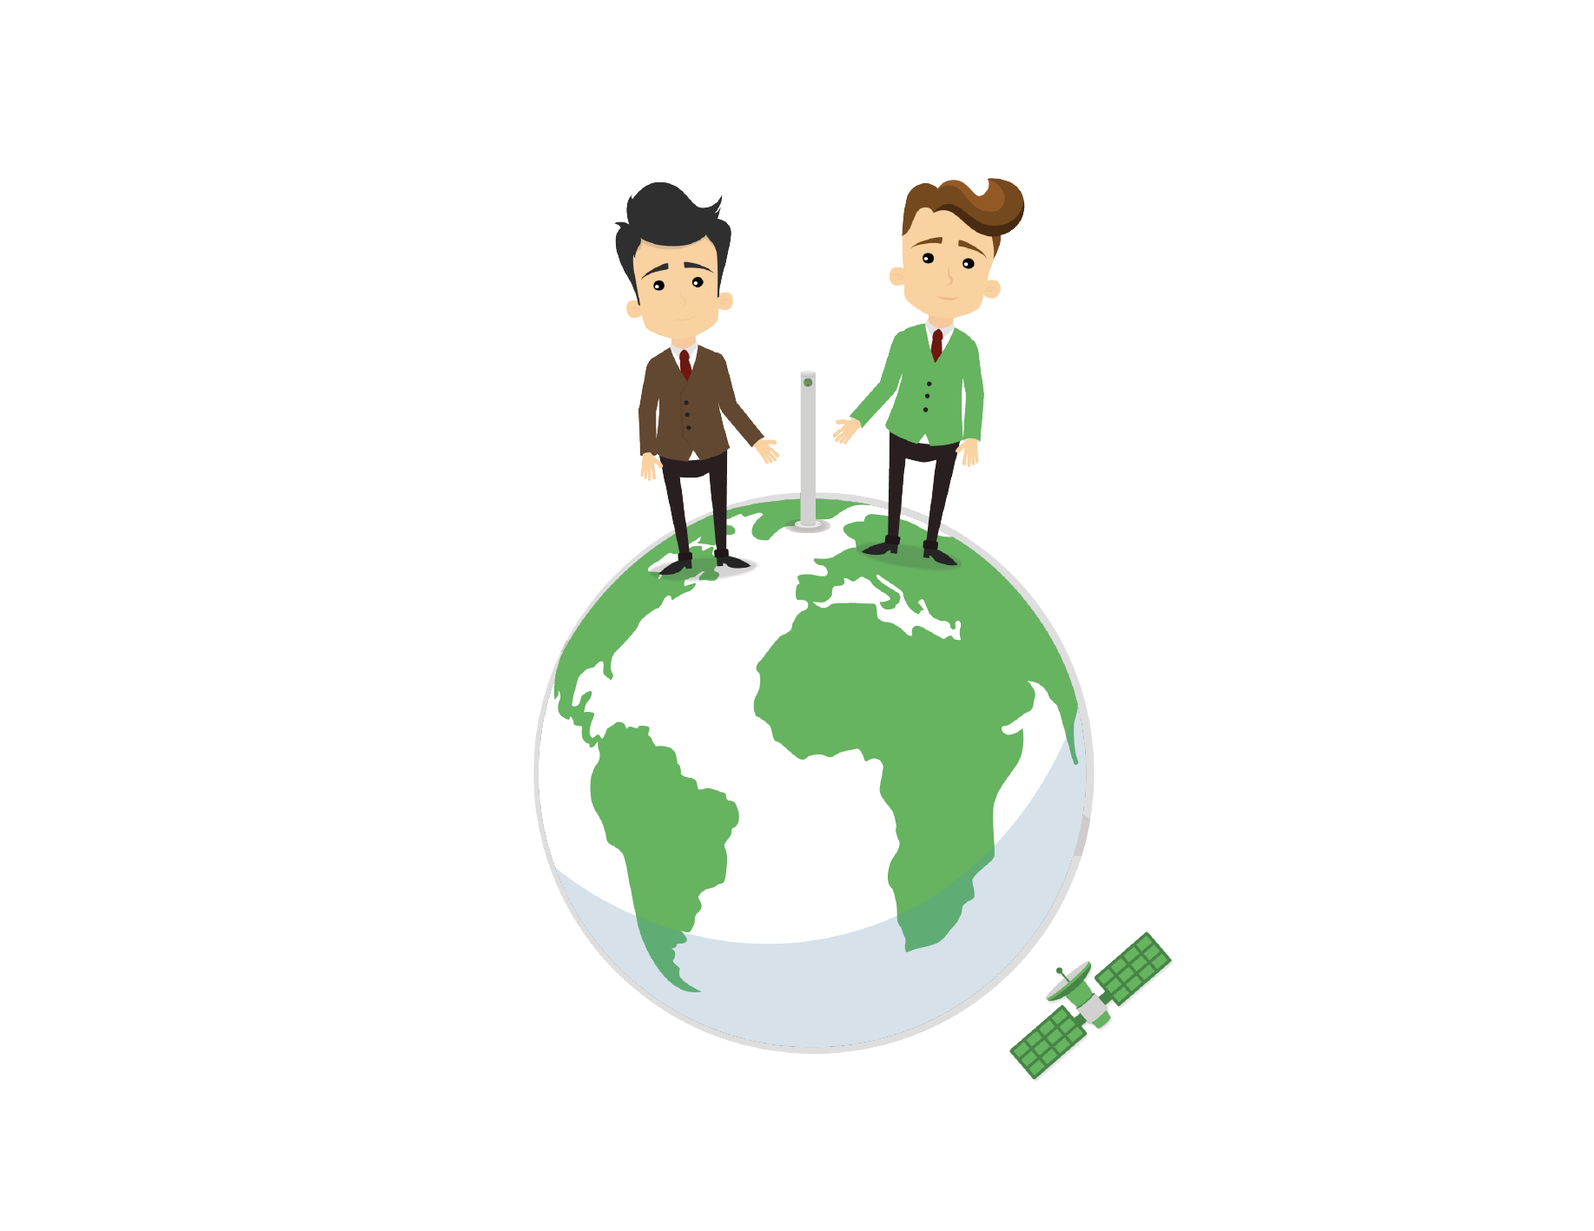
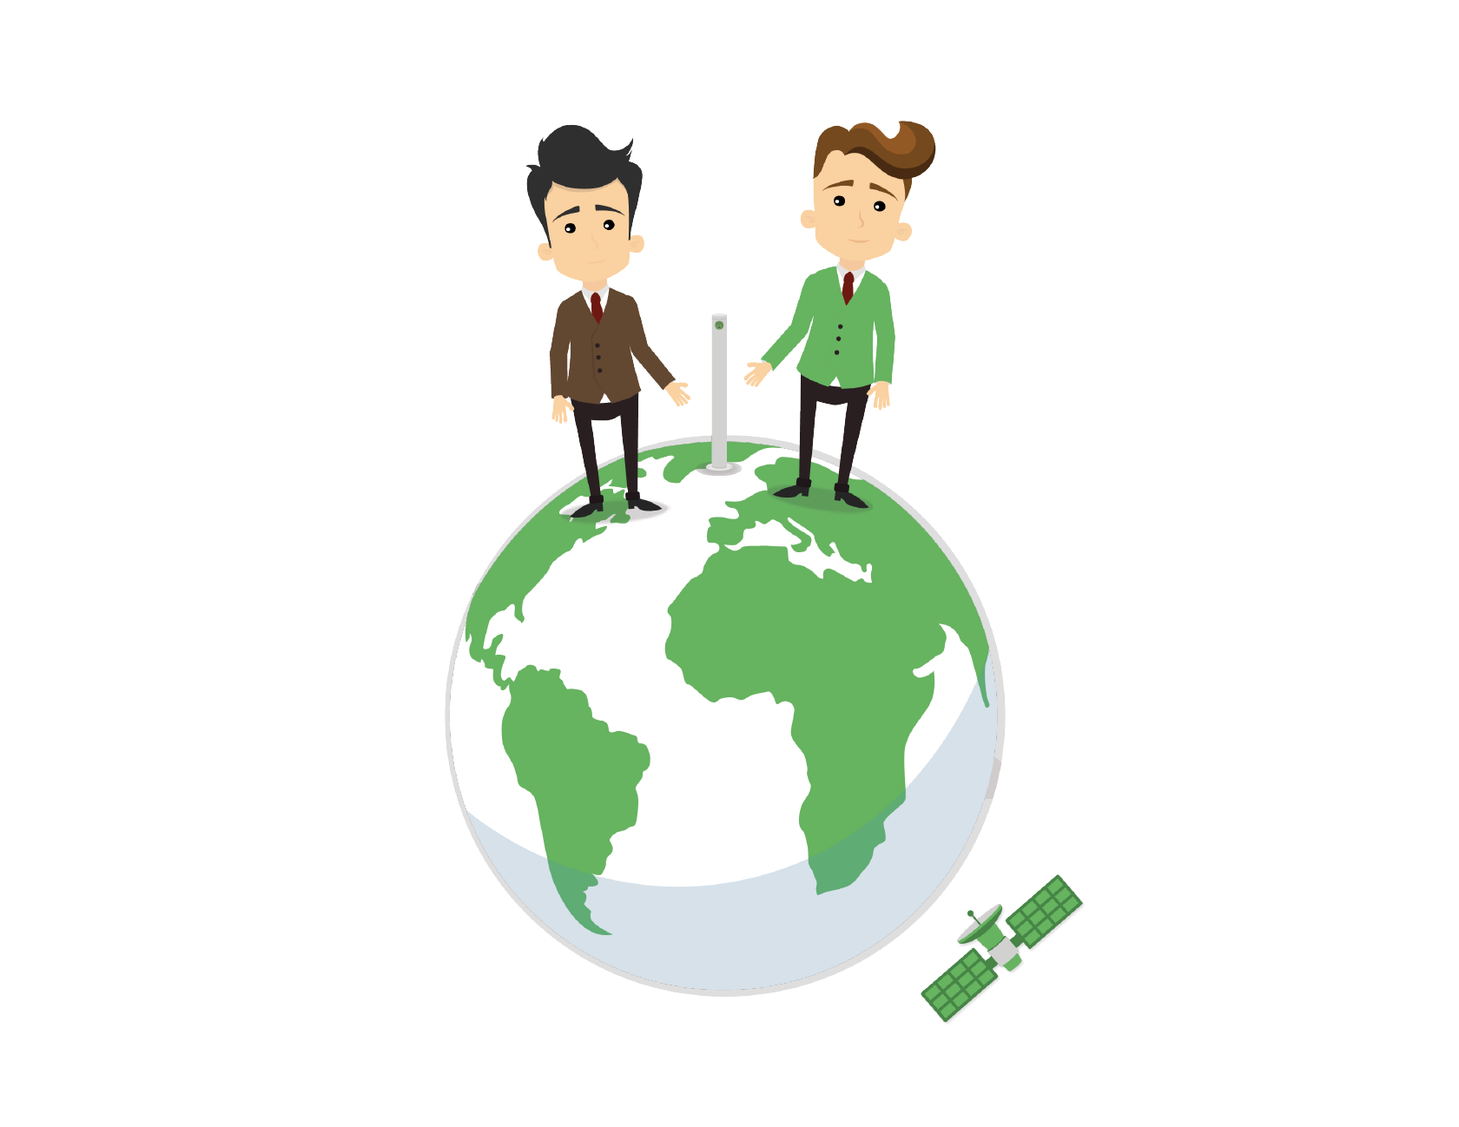
fixed youtube, alignment, and added google tracking

diff --git a/dist/style.css b/dist/style.css
@@ -1,12 +1,12 @@
 /*!
- * Theme Name: HTML5 Blank
- * Theme URI: http://html5blank.com
- * Description: HTML5 Blank WordPress Theme
- * Version: 1.5.0
- * Author: Todd Motto (@toddmotto)
- * Author URI: http://toddmotto.com
- * Tags: Blank, HTML5, CSS3
+ * Theme Name: Cpotter Landing Page
+ * Theme URI: http://cpotter.us
+ * Description: Cpotter Landing Page built on HTML5 Blank (@toddmotto)
+ * Version: 1.0.0
+ * Author: Xavier Banegas
+ * Author URI: http://xavierb.me
+ * Tags: Parking, Cpotter
  *
  * License: MIT
  * License URI: http://opensource.org/licenses/mit-license.php
- */html{font-family:sans-serif;-ms-text-size-adjust:100%;-webkit-text-size-adjust:100%}body{margin:0}article,aside,details,figcaption,figure,footer,header,hgroup,main,menu,nav,section,summary{display:block}audio,canvas,progress,video{display:inline-block;vertical-align:baseline}audio:not([controls]){display:none;height:0}[hidden],template{display:none}a{background-color:transparent}a:active,a:hover{outline:0}abbr[title]{border-bottom:1px dotted}b,strong{font-weight:700}dfn{font-style:italic}h1{font-size:2em;margin:.67em 0}mark{background:#ff0;color:#000}small{font-size:80%}sub,sup{font-size:75%;line-height:0;position:relative;vertical-align:baseline}sup{top:-.5em}sub{bottom:-.25em}img{border:0}svg:not(:root){overflow:hidden}figure{margin:1em 40px}hr{-moz-box-sizing:content-box;box-sizing:content-box;height:0}pre{overflow:auto}code,kbd,pre,samp{font-family:monospace,monospace;font-size:1em}button,input,optgroup,select,textarea{color:inherit;font:inherit;margin:0}button{overflow:visible}button,select{text-transform:none}button,html input[type="button"],input[type="reset"],input[type="submit"]{-webkit-appearance:button;cursor:pointer}button[disabled],html input[disabled]{cursor:default}button::-moz-focus-inner,input::-moz-focus-inner{border:0;padding:0}input{line-height:normal}input[type="checkbox"],input[type="radio"]{-moz-box-sizing:border-box;box-sizing:border-box;padding:0}input[type="number"]::-webkit-inner-spin-button,input[type="number"]::-webkit-outer-spin-button{height:auto}input[type="search"]{-webkit-appearance:textfield;-moz-box-sizing:content-box;box-sizing:content-box}input[type="search"]::-webkit-search-cancel-button,input[type="search"]::-webkit-search-decoration{-webkit-appearance:none}fieldset{border:1px solid silver;margin:0 2px;padding:.35em .625em .75em}legend{border:0;padding:0}textarea{overflow:auto}optgroup{font-weight:700}table{border-collapse:collapse;border-spacing:0}td,th{padding:0}*,*:after,*:before{-moz-box-sizing:border-box;box-sizing:border-box}html{font-size:62.5%;-webkit-tap-highlight-color:transparent}body{font-family:"Helvetica Neue",Helvetica,Arial,"Open Sans",sans-serif;font-size:140%;line-height:1.5;color:#CDCCCC;background-color:#3d3d3c}img{max-width:100%;vertical-align:middle}a{color:#CDCCCC;text-decoration:none}a:focus,a:hover{text-decoration:underline}input[type="text"],input[type="search"]{font-size:inherit;line-height:inherit}::-moz-selection{background-color:#04A4CC;color:#3d3d3c;text-shadow:none}::selection{background-color:#04A4CC;color:#3d3d3c;text-shadow:none}.alignnone{margin:5px 15px 15px 0}.aligncenter{display:block;margin:5px auto}.alignright{float:right;margin:5px 0 15px 15px}.alignleft{float:left;margin:5px 15px 15px 0}.wp-caption{background:#3d3d3c;border:thin solid #F0F0F0;max-width:95%;padding:5px;text-align:center}.wp-caption img{width:auto;max-width:98.5%;height:auto;border:0 none;padding:0;margin:0}.wp-caption .wp-caption-text,.gallery-caption{margin:0;padding:0 5px 5px;font-size:140%;line-height:1.5}.clear:before,.clear:after{content:" ";display:table}.clear:after{clear:both}.reset-box{padding:0;margin:0}.wrapper{max-width:1280px;padding:0 15px;margin:0 auto;position:relative}.header{padding-top:70px}.header .subheader{text-align:center;margin-top:20px}.mailing-link{text-align:center}.mailing-link a{color:#6AB565}.copyright{color:gray;margin-left:8%}@media print{*,*:before,*:after{background:transparent!important;color:#000!important;box-shadow:none!important;text-shadow:none!important}a,a:visited{text-decoration:underline}a[href]:after{content:" (" attr(href)")"}abbr[title]:after{content:" (" attr(title)")"}a[href^="#"]:after,a[href^="javascript:"]:after{content:""}pre,blockquote{border:1px solid #999;page-break-inside:avoid}thead{display:table-header-group}tr,img{page-break-inside:avoid}img{max-width:100%!important}p,h2,h3{orphans:3;widows:3}h2,h3{page-break-after:avoid}}.video-wrapper{overflow:hidden}.video-wrapper iframe{width:90%;height:90%;padding-top:10%}@media (max-width:991px){iframe{width:100%}}
+ */html{font-family:sans-serif;-ms-text-size-adjust:100%;-webkit-text-size-adjust:100%}body{margin:0}article,aside,details,figcaption,figure,footer,header,hgroup,main,menu,nav,section,summary{display:block}audio,canvas,progress,video{display:inline-block;vertical-align:baseline}audio:not([controls]){display:none;height:0}[hidden],template{display:none}a{background-color:transparent}a:active,a:hover{outline:0}abbr[title]{border-bottom:1px dotted}b,strong{font-weight:700}dfn{font-style:italic}h1{font-size:2em;margin:.67em 0}mark{background:#ff0;color:#000}small{font-size:80%}sub,sup{font-size:75%;line-height:0;position:relative;vertical-align:baseline}sup{top:-.5em}sub{bottom:-.25em}img{border:0}svg:not(:root){overflow:hidden}figure{margin:1em 40px}hr{-moz-box-sizing:content-box;box-sizing:content-box;height:0}pre{overflow:auto}code,kbd,pre,samp{font-family:monospace,monospace;font-size:1em}button,input,optgroup,select,textarea{color:inherit;font:inherit;margin:0}button{overflow:visible}button,select{text-transform:none}button,html input[type="button"],input[type="reset"],input[type="submit"]{-webkit-appearance:button;cursor:pointer}button[disabled],html input[disabled]{cursor:default}button::-moz-focus-inner,input::-moz-focus-inner{border:0;padding:0}input{line-height:normal}input[type="checkbox"],input[type="radio"]{-moz-box-sizing:border-box;box-sizing:border-box;padding:0}input[type="number"]::-webkit-inner-spin-button,input[type="number"]::-webkit-outer-spin-button{height:auto}input[type="search"]{-webkit-appearance:textfield;-moz-box-sizing:content-box;box-sizing:content-box}input[type="search"]::-webkit-search-cancel-button,input[type="search"]::-webkit-search-decoration{-webkit-appearance:none}fieldset{border:1px solid silver;margin:0 2px;padding:.35em .625em .75em}legend{border:0;padding:0}textarea{overflow:auto}optgroup{font-weight:700}table{border-collapse:collapse;border-spacing:0}td,th{padding:0}*,*:after,*:before{-moz-box-sizing:border-box;box-sizing:border-box}html{font-size:62.5%;-webkit-tap-highlight-color:transparent}body{font-family:"Helvetica Neue",Helvetica,Arial,"Open Sans",sans-serif;font-size:140%;line-height:1.5;color:#CDCCCC;background-color:#3d3d3c}img{max-width:100%;vertical-align:middle}a{color:#CDCCCC;text-decoration:none}a:focus,a:hover{text-decoration:underline}input[type="text"],input[type="search"]{font-size:inherit;line-height:inherit}::-moz-selection{background-color:#04A4CC;color:#3d3d3c;text-shadow:none}::selection{background-color:#04A4CC;color:#3d3d3c;text-shadow:none}.alignnone{margin:5px 15px 15px 0}.aligncenter{display:block;margin:5px auto}.alignright{float:right;margin:5px 0 15px 15px}.alignleft{float:left;margin:5px 15px 15px 0}.wp-caption{background:#3d3d3c;border:thin solid #F0F0F0;max-width:95%;padding:5px;text-align:center}.wp-caption img{width:auto;max-width:98.5%;height:auto;border:0 none;padding:0;margin:0}.wp-caption .wp-caption-text,.gallery-caption{margin:0;padding:0 5px 5px;font-size:140%;line-height:1.5}.clear:before,.clear:after{content:" ";display:table}.clear:after{clear:both}.reset-box{padding:0;margin:0}.wrapper{max-width:1280px;padding:0 15px;margin:0 auto;position:relative}.header{padding-top:70px}.header .subheader{text-align:center;margin-top:20px}.mailing-link{text-align:center}.mailing-link a{color:#6AB565}.copyright{color:gray;text-align:center}@media print{*,*:before,*:after{background:transparent!important;color:#000!important;box-shadow:none!important;text-shadow:none!important}a,a:visited{text-decoration:underline}a[href]:after{content:" (" attr(href)")"}abbr[title]:after{content:" (" attr(title)")"}a[href^="#"]:after,a[href^="javascript:"]:after{content:""}pre,blockquote{border:1px solid #999;page-break-inside:avoid}thead{display:table-header-group}tr,img{page-break-inside:avoid}img{max-width:100%!important}p,h2,h3{orphans:3;widows:3}h2,h3{page-break-after:avoid}}.video-wrapper{overflow:hidden}.video-wrapper iframe{width:90%;height:90%;padding-top:10%}@media (max-width:768px){.video-wrapper iframe{width:100%}}

diff --git a/src/style.css b/src/style.css
@@ -1,12 +1,12 @@
 /*!
- * Theme Name: HTML5 Blank
- * Theme URI: http://html5blank.com
- * Description: HTML5 Blank WordPress Theme
- * Version: 1.5.0
- * Author: Todd Motto (@toddmotto)
- * Author URI: http://toddmotto.com
- * Tags: Blank, HTML5, CSS3
+ * Theme Name: Cpotter Landing Page
+ * Theme URI: http://cpotter.us
+ * Description: Cpotter Landing Page built on HTML5 Blank (@toddmotto)
+ * Version: 1.0.0
+ * Author: Xavier Banegas
+ * Author URI: http://xavierb.me
+ * Tags: Parking, Cpotter
  *
  * License: MIT
  * License URI: http://opensource.org/licenses/mit-license.php
- */html{font-family:sans-serif;-ms-text-size-adjust:100%;-webkit-text-size-adjust:100%}body{margin:0}article,aside,details,figcaption,figure,footer,header,hgroup,main,menu,nav,section,summary{display:block}audio,canvas,progress,video{display:inline-block;vertical-align:baseline}audio:not([controls]){display:none;height:0}[hidden],template{display:none}a{background-color:transparent}a:active,a:hover{outline:0}abbr[title]{border-bottom:1px dotted}b,strong{font-weight:700}dfn{font-style:italic}h1{font-size:2em;margin:.67em 0}mark{background:#ff0;color:#000}small{font-size:80%}sub,sup{font-size:75%;line-height:0;position:relative;vertical-align:baseline}sup{top:-.5em}sub{bottom:-.25em}img{border:0}svg:not(:root){overflow:hidden}figure{margin:1em 40px}hr{-moz-box-sizing:content-box;box-sizing:content-box;height:0}pre{overflow:auto}code,kbd,pre,samp{font-family:monospace,monospace;font-size:1em}button,input,optgroup,select,textarea{color:inherit;font:inherit;margin:0}button{overflow:visible}button,select{text-transform:none}button,html input[type="button"],input[type="reset"],input[type="submit"]{-webkit-appearance:button;cursor:pointer}button[disabled],html input[disabled]{cursor:default}button::-moz-focus-inner,input::-moz-focus-inner{border:0;padding:0}input{line-height:normal}input[type="checkbox"],input[type="radio"]{-moz-box-sizing:border-box;box-sizing:border-box;padding:0}input[type="number"]::-webkit-inner-spin-button,input[type="number"]::-webkit-outer-spin-button{height:auto}input[type="search"]{-webkit-appearance:textfield;-moz-box-sizing:content-box;box-sizing:content-box}input[type="search"]::-webkit-search-cancel-button,input[type="search"]::-webkit-search-decoration{-webkit-appearance:none}fieldset{border:1px solid silver;margin:0 2px;padding:.35em .625em .75em}legend{border:0;padding:0}textarea{overflow:auto}optgroup{font-weight:700}table{border-collapse:collapse;border-spacing:0}td,th{padding:0}*,*:after,*:before{-moz-box-sizing:border-box;box-sizing:border-box}html{font-size:62.5%;-webkit-tap-highlight-color:transparent}body{font-family:"Helvetica Neue",Helvetica,Arial,"Open Sans",sans-serif;font-size:140%;line-height:1.5;color:#CDCCCC;background-color:#3d3d3c}img{max-width:100%;vertical-align:middle}a{color:#CDCCCC;text-decoration:none}a:focus,a:hover{text-decoration:underline}input[type="text"],input[type="search"]{font-size:inherit;line-height:inherit}::-moz-selection{background-color:#04A4CC;color:#3d3d3c;text-shadow:none}::selection{background-color:#04A4CC;color:#3d3d3c;text-shadow:none}.alignnone{margin:5px 15px 15px 0}.aligncenter{display:block;margin:5px auto}.alignright{float:right;margin:5px 0 15px 15px}.alignleft{float:left;margin:5px 15px 15px 0}.wp-caption{background:#3d3d3c;border:thin solid #F0F0F0;max-width:95%;padding:5px;text-align:center}.wp-caption img{width:auto;max-width:98.5%;height:auto;border:0 none;padding:0;margin:0}.wp-caption .wp-caption-text,.gallery-caption{margin:0;padding:0 5px 5px;font-size:140%;line-height:1.5}.clear:before,.clear:after{content:" ";display:table}.clear:after{clear:both}.reset-box{padding:0;margin:0}.wrapper{max-width:1280px;padding:0 15px;margin:0 auto;position:relative}.header{padding-top:70px}.header .subheader{text-align:center;margin-top:20px}.mailing-link{text-align:center}.mailing-link a{color:#6AB565}.copyright{color:gray;margin-left:8%}@media print{*,*:before,*:after{background:transparent!important;color:#000!important;box-shadow:none!important;text-shadow:none!important}a,a:visited{text-decoration:underline}a[href]:after{content:" (" attr(href)")"}abbr[title]:after{content:" (" attr(title)")"}a[href^="#"]:after,a[href^="javascript:"]:after{content:""}pre,blockquote{border:1px solid #999;page-break-inside:avoid}thead{display:table-header-group}tr,img{page-break-inside:avoid}img{max-width:100%!important}p,h2,h3{orphans:3;widows:3}h2,h3{page-break-after:avoid}}.video-wrapper{overflow:hidden}.video-wrapper iframe{width:90%;height:90%;padding-top:10%}@media (max-width:991px){iframe{width:100%}}
+ */html{font-family:sans-serif;-ms-text-size-adjust:100%;-webkit-text-size-adjust:100%}body{margin:0}article,aside,details,figcaption,figure,footer,header,hgroup,main,menu,nav,section,summary{display:block}audio,canvas,progress,video{display:inline-block;vertical-align:baseline}audio:not([controls]){display:none;height:0}[hidden],template{display:none}a{background-color:transparent}a:active,a:hover{outline:0}abbr[title]{border-bottom:1px dotted}b,strong{font-weight:700}dfn{font-style:italic}h1{font-size:2em;margin:.67em 0}mark{background:#ff0;color:#000}small{font-size:80%}sub,sup{font-size:75%;line-height:0;position:relative;vertical-align:baseline}sup{top:-.5em}sub{bottom:-.25em}img{border:0}svg:not(:root){overflow:hidden}figure{margin:1em 40px}hr{-moz-box-sizing:content-box;box-sizing:content-box;height:0}pre{overflow:auto}code,kbd,pre,samp{font-family:monospace,monospace;font-size:1em}button,input,optgroup,select,textarea{color:inherit;font:inherit;margin:0}button{overflow:visible}button,select{text-transform:none}button,html input[type="button"],input[type="reset"],input[type="submit"]{-webkit-appearance:button;cursor:pointer}button[disabled],html input[disabled]{cursor:default}button::-moz-focus-inner,input::-moz-focus-inner{border:0;padding:0}input{line-height:normal}input[type="checkbox"],input[type="radio"]{-moz-box-sizing:border-box;box-sizing:border-box;padding:0}input[type="number"]::-webkit-inner-spin-button,input[type="number"]::-webkit-outer-spin-button{height:auto}input[type="search"]{-webkit-appearance:textfield;-moz-box-sizing:content-box;box-sizing:content-box}input[type="search"]::-webkit-search-cancel-button,input[type="search"]::-webkit-search-decoration{-webkit-appearance:none}fieldset{border:1px solid silver;margin:0 2px;padding:.35em .625em .75em}legend{border:0;padding:0}textarea{overflow:auto}optgroup{font-weight:700}table{border-collapse:collapse;border-spacing:0}td,th{padding:0}*,*:after,*:before{-moz-box-sizing:border-box;box-sizing:border-box}html{font-size:62.5%;-webkit-tap-highlight-color:transparent}body{font-family:"Helvetica Neue",Helvetica,Arial,"Open Sans",sans-serif;font-size:140%;line-height:1.5;color:#CDCCCC;background-color:#3d3d3c}img{max-width:100%;vertical-align:middle}a{color:#CDCCCC;text-decoration:none}a:focus,a:hover{text-decoration:underline}input[type="text"],input[type="search"]{font-size:inherit;line-height:inherit}::-moz-selection{background-color:#04A4CC;color:#3d3d3c;text-shadow:none}::selection{background-color:#04A4CC;color:#3d3d3c;text-shadow:none}.alignnone{margin:5px 15px 15px 0}.aligncenter{display:block;margin:5px auto}.alignright{float:right;margin:5px 0 15px 15px}.alignleft{float:left;margin:5px 15px 15px 0}.wp-caption{background:#3d3d3c;border:thin solid #F0F0F0;max-width:95%;padding:5px;text-align:center}.wp-caption img{width:auto;max-width:98.5%;height:auto;border:0 none;padding:0;margin:0}.wp-caption .wp-caption-text,.gallery-caption{margin:0;padding:0 5px 5px;font-size:140%;line-height:1.5}.clear:before,.clear:after{content:" ";display:table}.clear:after{clear:both}.reset-box{padding:0;margin:0}.wrapper{max-width:1280px;padding:0 15px;margin:0 auto;position:relative}.header{padding-top:70px}.header .subheader{text-align:center;margin-top:20px}.mailing-link{text-align:center}.mailing-link a{color:#6AB565}.copyright{color:gray;text-align:center}@media print{*,*:before,*:after{background:transparent!important;color:#000!important;box-shadow:none!important;text-shadow:none!important}a,a:visited{text-decoration:underline}a[href]:after{content:" (" attr(href)")"}abbr[title]:after{content:" (" attr(title)")"}a[href^="#"]:after,a[href^="javascript:"]:after{content:""}pre,blockquote{border:1px solid #999;page-break-inside:avoid}thead{display:table-header-group}tr,img{page-break-inside:avoid}img{max-width:100%!important}p,h2,h3{orphans:3;widows:3}h2,h3{page-break-after:avoid}}.video-wrapper{overflow:hidden}.video-wrapper iframe{width:90%;height:90%;padding-top:10%}@media (max-width:768px){.video-wrapper iframe{width:100%}}

diff --git a/src/css/banner.css b/src/css/banner.css
@@ -1,11 +1,11 @@
 /*!
- * Theme Name: HTML5 Blank
- * Theme URI: http://html5blank.com
- * Description: HTML5 Blank WordPress Theme
- * Version: 1.5.0
- * Author: Todd Motto (@toddmotto)
- * Author URI: http://toddmotto.com
- * Tags: Blank, HTML5, CSS3
+ * Theme Name: Cpotter Landing Page
+ * Theme URI: http://cpotter.us
+ * Description: Cpotter Landing Page built on HTML5 Blank (@toddmotto)
+ * Version: 1.0.0
+ * Author: Xavier Banegas
+ * Author URI: http://xavierb.me
+ * Tags: Parking, Cpotter
  *
  * License: MIT
  * License URI: http://opensource.org/licenses/mit-license.php

diff --git a/src/css/style.css b/src/css/style.css
@@ -205,7 +205,7 @@ input[type="search"] {
  */
 .copyright {
   color: gray;
-  margin-left: 8%;
+  text-align: center;
 }
 
 /**
@@ -288,8 +288,8 @@ input[type="search"] {
   padding-top: 10%;
 }
 
-@media (max-width: 991px) {
-  iframe {
+@media (max-width: 768px) {
+  .video-wrapper iframe {
     width: 100%;
   }
 }

diff --git a/src/css/sass/modules/variables.scss b/src/css/sass/modules/variables.scss
@@ -35,3 +35,5 @@ $margin-horizontal-base: 5px;
 $margin-vertical-base: 5px;
 $margin-horizontal-large: 15px;
 $margin-vertical-large: 15px;
+
+$screen-sm-min :768px;

diff --git a/src/css/sass/partials/index.scss b/src/css/sass/partials/index.scss
@@ -2,7 +2,3 @@
 	overflow:hidden;
 	iframe { width:90%; height:90%; padding-top: 10%; }
  }
-
-@media (max-width: 991px) {
-	iframe { width:100%; }
-}

diff --git a/src/css/sass/partials/footer.scss b/src/css/sass/partials/footer.scss
@@ -4,6 +4,6 @@
  */
 
 
-.footer {}
+// .footer {}
 
-.copyright{color: gray; margin-left: 8%;}
+.copyright{color: gray; text-align: center;} 

diff --git a/src/css/sass/style.scss b/src/css/sass/style.scss
@@ -20,3 +20,4 @@
 @import "partials/footer";
 @import "partials/print";
 @import "partials/index";
+@import "partials/mobile";

diff --git a/src/css/sass/partials/mobile.scss b/src/css/sass/partials/mobile.scss
@@ -1,0 +1,3 @@
+@media (max-width: $screen-sm-min) { 
+	.video-wrapper iframe { width:100%; }
+}

diff --git a/dist/index.php b/dist/index.php
@@ -6,7 +6,7 @@
 			<div class="row">
 				
 				<div class="col-sm-6 col-xs-12 planet-wrapper" >
-					<img src="<?php echo get_template_directory_uri(); ?>/img/planet.svg" alt="Planet">
+					<img src="<?php echo get_template_directory_uri(); ?>/img/planet.png" alt="Planet">
 				</div>
 				<div class="col-sm-6 col-xs-12 video-wrapper">
 					<div id="ytplayer"></div>
@@ -28,18 +28,18 @@ var player;
 function onYouTubePlayerAPIReady() {
 player = new YT.Player('ytplayer', {
   videoId: 'ylJh9DusVIA',
-  playerVars: { 'controls': 0 },
+  playerVars: { 'controls': 0, 'autoplay': 1 },
 });
 }  
-setTimeout(function() {
-	$(".video-wrapper").height( $(".planet-wrapper").height() );
-	// Load the IFrame Player API code asynchronously.
-	var tag = document.createElement('script');
-	tag.src = "https://www.youtube.com/player_api";
-	var firstScriptTag = document.getElementsByTagName('script')[0];
-	firstScriptTag.parentNode.insertBefore(tag, firstScriptTag);
-}, 2000);
 
+$('.planet-wrapper img').load(function(){
+		$(".video-wrapper").height( $(".planet-wrapper").height() );
+		// Load the IFrame Player API code asynchronously.
+		var tag = document.createElement('script');
+		tag.src = "https://www.youtube.com/player_api";
+		var firstScriptTag = document.getElementsByTagName('script')[0];
+		firstScriptTag.parentNode.insertBefore(tag, firstScriptTag);
+});
 </script>
 
 <?php get_footer(); ?>

diff --git a/src/index.php b/src/index.php
@@ -6,7 +6,7 @@
 			<div class="row">
 				
 				<div class="col-sm-6 col-xs-12 planet-wrapper" >
-					<img src="<?php echo get_template_directory_uri(); ?>/img/planet.svg" alt="Planet">
+					<img src="<?php echo get_template_directory_uri(); ?>/img/planet.png" alt="Planet">
 				</div>
 				<div class="col-sm-6 col-xs-12 video-wrapper">
 					<div id="ytplayer"></div>
@@ -28,18 +28,18 @@ var player;
 function onYouTubePlayerAPIReady() {
 player = new YT.Player('ytplayer', {
   videoId: 'ylJh9DusVIA',
-  playerVars: { 'controls': 0 },
+  playerVars: { 'controls': 0, 'autoplay': 1 },
 });
 }  
-setTimeout(function() {
-	$(".video-wrapper").height( $(".planet-wrapper").height() );
-	// Load the IFrame Player API code asynchronously.
-	var tag = document.createElement('script');
-	tag.src = "https://www.youtube.com/player_api";
-	var firstScriptTag = document.getElementsByTagName('script')[0];
-	firstScriptTag.parentNode.insertBefore(tag, firstScriptTag);
-}, 2000);
 
+$('.planet-wrapper img').load(function(){
+		$(".video-wrapper").height( $(".planet-wrapper").height() );
+		// Load the IFrame Player API code asynchronously.
+		var tag = document.createElement('script');
+		tag.src = "https://www.youtube.com/player_api";
+		var firstScriptTag = document.getElementsByTagName('script')[0];
+		firstScriptTag.parentNode.insertBefore(tag, firstScriptTag);
+});
 </script>
 
 <?php get_footer(); ?>

diff --git a/dist/header.php b/dist/header.php
@@ -7,8 +7,8 @@
 		<link rel="stylesheet" href="//maxcdn.bootstrapcdn.com/bootstrap/3.3.0/css/bootstrap.min.css">
 
 		<link href="//www.google-analytics.com" rel="dns-prefetch">
-        <link href="<?php echo get_template_directory_uri(); ?>/img/icons/favicon.ico" rel="shortcut icon">
-        <link href="<?php echo get_template_directory_uri(); ?>/img/icons/touch.png" rel="apple-touch-icon-precomposed">
+        <!-- <link href="<?php // echo get_template_directory_uri(); ?>/img/icons/favicon.ico" rel="shortcut icon"> -->
+        <!-- <link href="<?php // echo get_template_directory_uri(); ?>/img/icons/touch.png" rel="apple-touch-icon-precomposed"> -->
 
 		<meta http-equiv="X-UA-Compatible" content="IE=edge,chrome=1">
 		<meta name="viewport" content="width=device-width, initial-scale=1.0">
